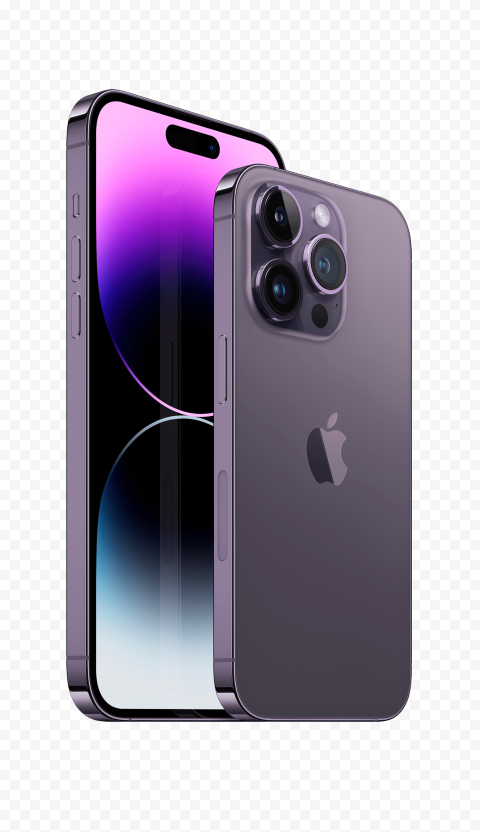
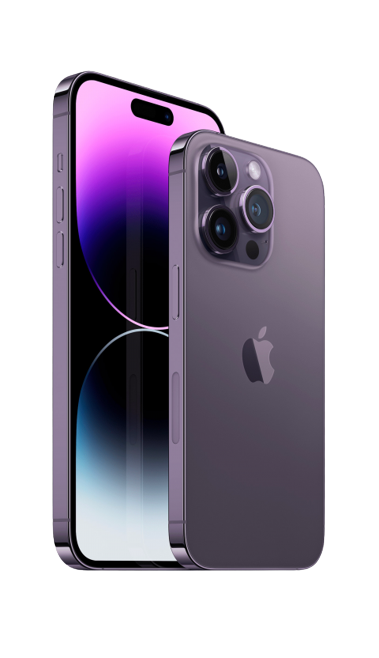
adding function to JS, added some touches to style sheet and working on HTML to get onClick to work within the image.

diff --git a/Labs/FinalWebsite/stylefinal.css b/Labs/FinalWebsite/stylefinal.css
@@ -13,8 +13,9 @@
 
 }
 
-.logo{
-  width:130px;
+.brandlogo{
+  width:85px;
+  height:85px;
 
 }
 .nav{
@@ -47,7 +48,7 @@
   height: 1000px;
   position: absolute;
   top:50%;
-  left: -10%;
+  left: 0%;
   transform: translateY(-50%);
 
 }
@@ -59,47 +60,103 @@
   top: 0;
   left: 0;
   border-radius: 50%;
-  background: #ccc;
+  transform: rotate(0deg);
 }
 
-
+/**control camera logo and text*/
 .featureone{
   top: 450px;
   right: 50px;
     position: absolute;
+    display: flex;
+    color: white;
+    margin-left: 30px;
 }
 .cameraicon{
   width: 70px;
   height: 70px;
 }
+/**control processor logo and text*/
 .featuretwo{
-  top: 150px;
-  left: 400px;
+  top: 100px;
+  left: 370px;
     position: absolute;
+    display: flex;
+    color: white;
+    margin-left: 30px;
 
 }
 .processoricon{
   width: 70px;
   height: 70px;
 }
+/**control display logo and text*/
 .featurethree{
-  bottom: 450px;
-  left: 70px;
+  bottom: 480px;
+  left: 50px;
     position: absolute;
+    display: flex;
+    color: white;
+    margin-left: 30px;
 
 }
 .displayicon{
   width: 70px;
   height: 70px;
 }
-
+/**control Battery logo and text*/
 .featurefour{
-  bottom: 150px;
+  bottom: 50px;
   right: 350px;
     position: absolute;
+    display: flex;
+    color: white;
+    margin-left: 30px;
 
 }
 .batteryicon{
   width: 70px;
   height: 70px;
+}
+
+/**adding some margin between header and text(p)*/
+p{
+  margin-top: 8px;
+}
+
+.phoneimage{
+  width: 250px;
+  position: absolute;
+  top: 50%;
+  left:40%;
+  transform: translateY(-50%);
+  z-index: 1;
+}
+
+.controls{
+  position: absolute;
+  right: 10%;
+  top: 50%;
+  transform: translateY(-50%);
+}
+
+h3{
+  margin: 15px 0;
+  color: white;
+  text-align: center;
+}
+
+#arrowUp{
+  width: 15px;
+  height: 15px;
+  cursor: pointer;
+
+}
+
+#arrowDown{
+  width: 15px;
+  height: 15px;
+  cursor: pointer;
+  transform: rotate(180deg);
+
 }

diff --git a/Labs/FinalWebsite/code.html b/Labs/FinalWebsite/code.html
@@ -14,7 +14,7 @@
 <div class="main">
   <nav class="nav">
     <div class="logo">
-      <img class="logo" src="images/omarPhone.png" alt="Phone logo"/>
+      <img class="brandlogo" src="images/omarPhone.png" alt="Phone logo"/>
       </div>
     <div class="nav-links">
       <ul>
@@ -27,27 +27,47 @@
           </nav>
 
     <div class="info">
+          <img class="phoneimage" src="images/iphone.png" alt="iPhone 14 Pro Max"/>
       <div id="circle">
         <div class="featureone">
           <img class="cameraicon" src="images/camera.png" alt="camera icon"/>
+          <div>
+            <h1>Camera</h1>
+            <p> 48MP (Triple Camera), 12MP Front</p>
+            </div>
         </div>
         <div class="featuretwo">
           <img class="processoricon" src="images/processor.png" alt="processor icon"/>
+          <div>
+            <h1>Processor</h1>
+            <p> Apple A16 Bionic</p>
+            </div>
         </div>
         <div class="featurethree">
           <img class="displayicon" src="images/display.png" alt="display icon"/>
+          <div>
+            <h1>Display</h1>
+            <p> 6.7" Retina Display, 120Hz Refresh Rate</p>
+            </div>
         </div>
         <div class="featurefour">
           <img class="batteryicon" src="images/battery.png" alt="battery icon"/>
+          <div>
+            <h1>Battery</h1>
+            <p> 4,323 mAh, All day battery life</p>
+            </div>
         </div>
             </div>
             </div>
 
+            <div class="controls">
+                 <img id="arrowUp" src="images/arrow.png" alt="arrow pointing up" onClick="arrowUpRotate()"/>
+                <h3>Features</h3>
+                <img id="arrowDown" src="images/arrow.png" alt="arrow pointing up"/>
+              </div>
+
 
   </body>
-
-
-
 
 
   </html>

diff --git a/Labs/FinalWebsite/scriptsfinal.js b/Labs/FinalWebsite/scriptsfinal.js
@@ -1,0 +1,21 @@
+
+//arrowUp.onclick = function()
+//{
+  //rotateSum = rotateValue + "rotate(-90deg)";
+  //circle.style.transform = rotateSum;
+  //rotateValue = rotateSum;
+//}
+
+
+function arrowUpRotate(){
+  rotateSum = rotateValue + "rotate(-90deg)";
+  circle.style.transform = rotateSum;
+  rotateValue = rotateSum;
+}
+
+var circle = document.getElementById("circle")
+var arrowUp = document.getElementById("arrowUp");
+var arrowDown = document.getElementById("arrowDown");
+
+var rotateValue = circle.style.transform;
+var rotateSum;
